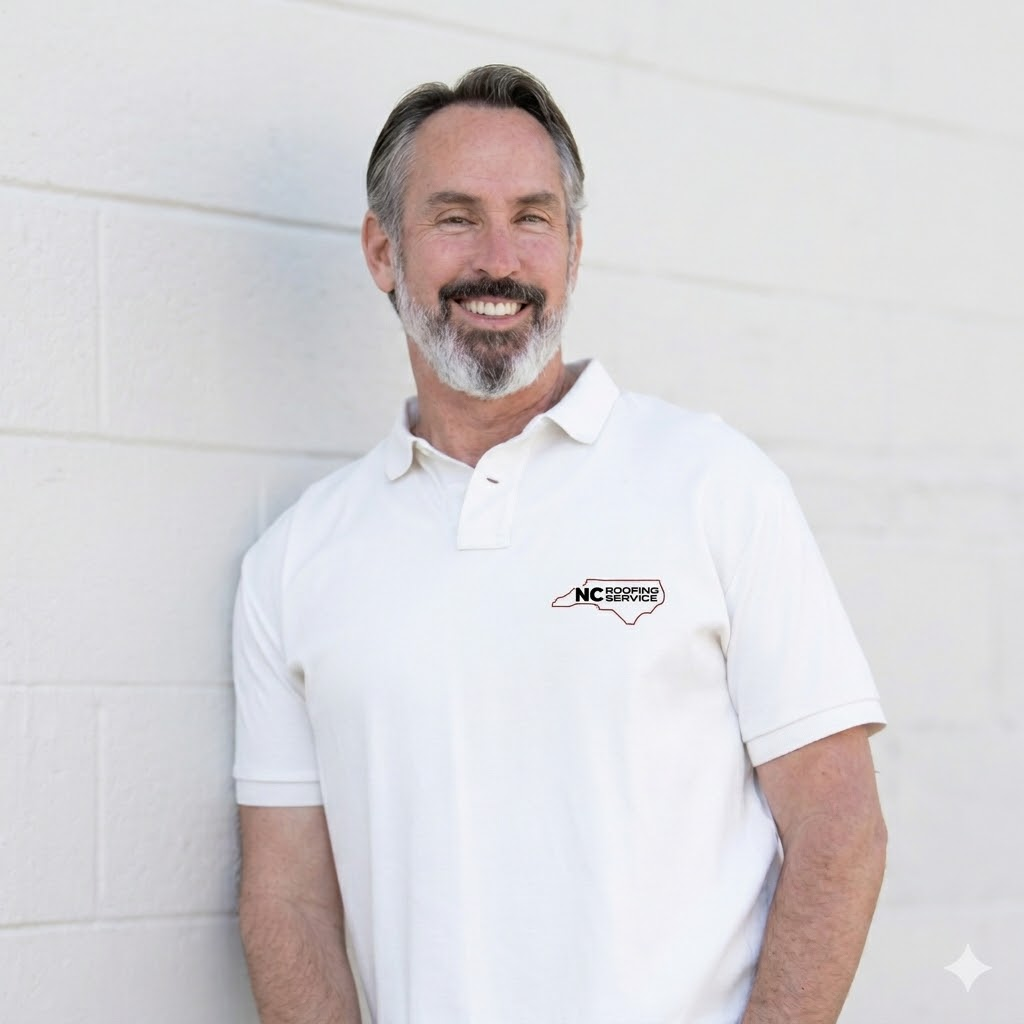
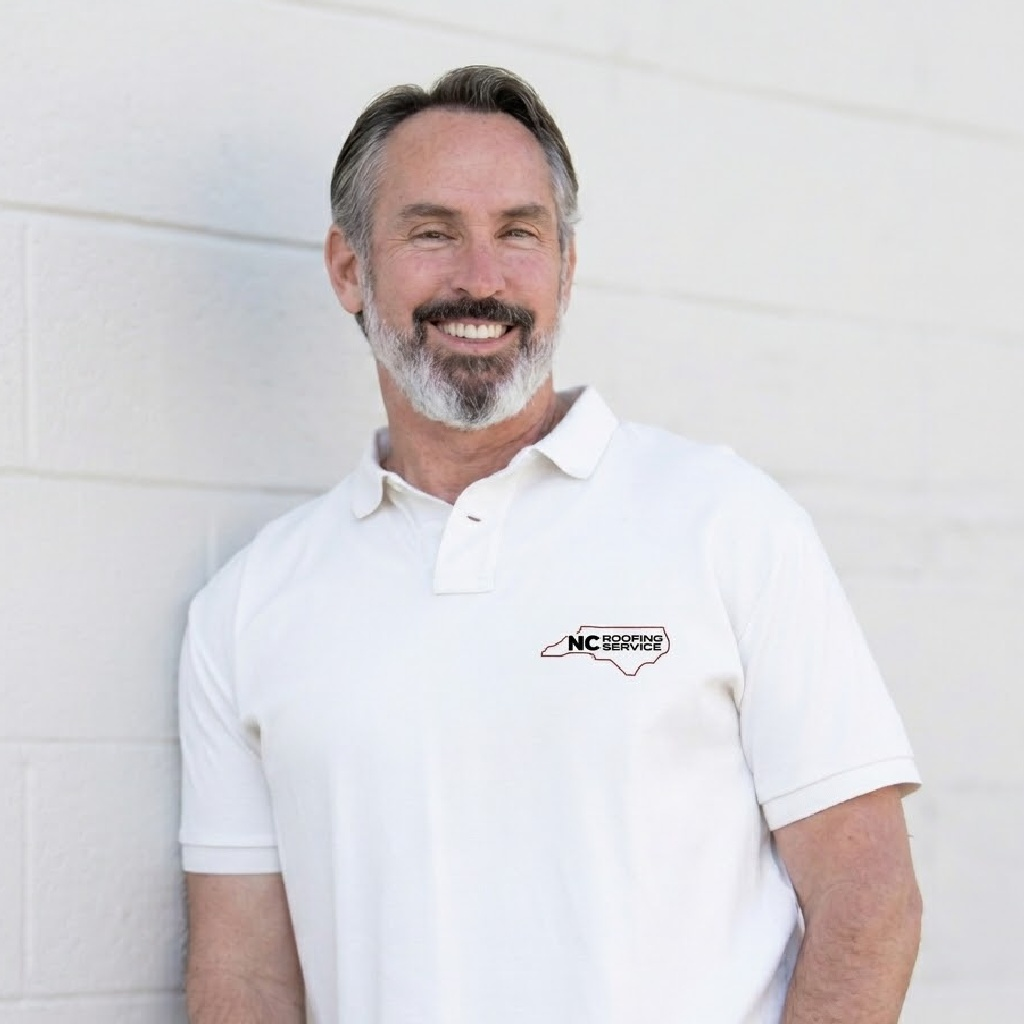
Reorder Residential menu, refine crew cards, auto-compute years in business
- Residential menu/services grid/footer reordered to: Roof Repair,
  Storm Damage & Insurance, Roof Replacement, FORTIFIED Roofing,
  Metal Roofing (nav, residential page, footer).
- Drop Max's Aerial -- Triangle-wide territory so his crew card
  matches Bill & Makenzie's Operations layout.
- Home hero subhead: "Proudly serving North Carolina since 2018".
- Wire home + residential "Years in Business" stat to
  yearsInBusiness() so it auto-bumps each January (now 8+).
- Refresh six team headshots with higher-resolution sources.

diff --git a/app/(site)/residential/page.tsx b/app/(site)/residential/page.tsx
@@ -1,5 +1,6 @@
 import Link from 'next/link'
 import { Metadata } from 'next'
+import { yearsInBusiness } from '@/lib/site'
 
 export const metadata: Metadata = {
   title: 'Residential Roofing Services | NC Roofing Service | NC Triangle',
@@ -8,18 +9,6 @@ export const metadata: Metadata = {
 }
 
 const services = [
-  {
-    title: 'Roof Replacement',
-    slug: 'roof-replacement',
-    description: 'Complete roof replacement with premium materials and extended warranties up to 50 years.',
-    icon: (
-      <svg className="w-8 h-8" fill="none" stroke="currentColor" viewBox="0 0 24 24">
-        <path strokeLinecap="round" strokeLinejoin="round" strokeWidth={2} d="M3 12l2-2m0 0l7-7 7 7M5 10v10a1 1 0 001 1h3m10-11l2 2m-2-2v10a1 1 0 01-1 1h-3m-6 0a1 1 0 001-1v-4a1 1 0 011-1h2a1 1 0 011 1v4a1 1 0 001 1m-6 0h6" />
-      </svg>
-    ),
-    color: 'from-slate-700 to-slate-900',
-    features: ['GAF, Owens Corning, CertainTeed certified', 'Up to 50-year warranties', 'Complete tear-off and disposal'],
-  },
   {
     title: 'Roof Repair',
     slug: 'roof-repair',
@@ -44,6 +33,18 @@ const services = [
     ),
     color: 'from-blue-600 to-blue-700',
     features: ['Free damage assessment', 'Insurance claim support', 'Adjuster meeting assistance'],
+  },
+  {
+    title: 'Roof Replacement',
+    slug: 'roof-replacement',
+    description: 'Complete roof replacement with premium materials and extended warranties up to 50 years.',
+    icon: (
+      <svg className="w-8 h-8" fill="none" stroke="currentColor" viewBox="0 0 24 24">
+        <path strokeLinecap="round" strokeLinejoin="round" strokeWidth={2} d="M3 12l2-2m0 0l7-7 7 7M5 10v10a1 1 0 001 1h3m10-11l2 2m-2-2v10a1 1 0 01-1 1h-3m-6 0a1 1 0 001-1v-4a1 1 0 011-1h2a1 1 0 011 1v4a1 1 0 001 1m-6 0h6" />
+      </svg>
+    ),
+    color: 'from-slate-700 to-slate-900',
+    features: ['GAF, Owens Corning, CertainTeed certified', 'Up to 50-year warranties', 'Complete tear-off and disposal'],
   },
   {
     title: 'FORTIFIED Roofing',
@@ -111,6 +112,7 @@ function generateFaqSchema() {
 
 export default function ResidentialPage() {
   const faqSchema = generateFaqSchema()
+  const years = yearsInBusiness()
 
   return (
     <main className="pt-20">
@@ -308,7 +310,7 @@ export default function ResidentialPage() {
             {/* Stats */}
             <div className="grid grid-cols-2 gap-6">
               <div className="bg-slate-50 rounded-2xl p-8 text-center border border-slate-200">
-                <div className="text-5xl font-bold text-brand-red mb-2">7+</div>
+                <div className="text-5xl font-bold text-brand-red mb-2">{years}+</div>
                 <div className="text-slate-600">Years in Business</div>
               </div>
               <div className="bg-slate-50 rounded-2xl p-8 text-center border border-slate-200">

diff --git a/app/(site)/page.tsx b/app/(site)/page.tsx
@@ -2,8 +2,10 @@
 import Image from 'next/image'
 import InstantQuote from '@/components/InstantQuote'
 import GoogleReviews from '@/components/GoogleReviews'
+import { yearsInBusiness } from '@/lib/site'
 
 export default function Home() {
+  const years = yearsInBusiness()
   return (
     <main>
       {/* Hero Section */}
@@ -32,7 +34,7 @@ export default function Home() {
               </h1>
               
               <p className="text-lg text-slate-300 mb-8 leading-relaxed max-w-2xl mx-auto lg:mx-0">
-                Proudly serving the greater NC Triangle since 2018. We provide free inspections, 
+                Proudly serving North Carolina since 2018. We provide free inspections, 
                 straightforward pricing, and dependable craftsmanship on every project.
               </p>
               
@@ -439,7 +441,7 @@ export default function Home() {
             {/* Stats */}
             <div className="grid grid-cols-2 gap-6">
               <div className="bg-white rounded-2xl p-8 text-center border border-brand-red/20 shadow-sm">
-                <div className="text-5xl font-bold text-brand-red mb-2">7+</div>
+                <div className="text-5xl font-bold text-brand-red mb-2">{years}+</div>
                 <div className="text-brand-gray">Years in Business</div>
               </div>
               <div className="bg-white rounded-2xl p-8 text-center border border-green-200 shadow-sm">

diff --git a/lib/team/data.ts b/lib/team/data.ts
@@ -127,7 +127,6 @@ export const team: TeamMember[] = [
     photo: '/images/team/max-drone-400x400.jpg',
     tagline: 'The Drone Guy — eyes in the sky on every Triangle roof.',
     bio: 'Max Taylor — better known around the shop as "The Drone Guy" — flies aerial inspections for every NC Roofing Service job. FAA Part 107 certified and trained on roofing-specific imaging, Max captures high-resolution photos and 4K video of every slope, valley, ridge, and flashing detail without anyone needing to set foot on a ladder. That means safer inspections for our crew, fewer scuffed shingles for you, and a documentation package detailed enough to back an insurance claim or a manufacturer warranty. After every storm, Max is up first — mapping hail strikes, wind-lifted shingles, and granule loss from above so Randy and the territory leads know exactly what they\'re walking into. If you\'ve ever wondered what your roof actually looks like, Max is the reason you\'ll see it for yourself.',
-    territory: 'Aerial — Triangle-wide',
     cities: ['Durham', 'Raleigh', 'Chapel Hill', 'Cary', 'Apex', 'Oxford', 'Hillsborough', 'Wake Forest'],
     directPhone: '+12096411840',
     phoneDisplay: '(209) 641-1840',

diff --git a/components/Footer.tsx b/components/Footer.tsx
@@ -30,9 +30,9 @@ export default function Footer() {
             <h3 className="text-white font-semibold text-lg mb-4">Services</h3>
             <ul className="space-y-3">
               <li><Link href="/residential" className="text-slate-400 hover:text-white transition-colors text-sm">Residential Roofing</Link></li>
-              <li><Link href="/residential/roof-replacement" className="text-slate-400 hover:text-white transition-colors text-sm">Roof Replacement</Link></li>
               <li><Link href="/residential/roof-repair" className="text-slate-400 hover:text-white transition-colors text-sm">Roof Repair</Link></li>
               <li><Link href="/residential/storm-damage" className="text-slate-400 hover:text-white transition-colors text-sm">Storm Damage</Link></li>
+              <li><Link href="/residential/roof-replacement" className="text-slate-400 hover:text-white transition-colors text-sm">Roof Replacement</Link></li>
               <li>
                 <Link href="/commercial" className="text-brand-red hover:text-brand-red-dark transition-colors text-sm font-medium">
                   Commercial Roofing

diff --git a/components/Navigation.tsx b/components/Navigation.tsx
@@ -6,9 +6,9 @@ import Image from 'next/image'
 
 const residentialLinks = [
   { href: '/residential', label: 'All Residential Services' },
-  { href: '/residential/roof-replacement', label: 'Roof Replacement' },
   { href: '/residential/roof-repair', label: 'Roof Repair' },
   { href: '/residential/storm-damage', label: 'Storm Damage & Insurance' },
+  { href: '/residential/roof-replacement', label: 'Roof Replacement' },
   { href: '/residential/fortified-roofing', label: 'FORTIFIED Roofing' },
   { href: '/residential/metal-roofing', label: 'Metal Roofing' },
 ]
